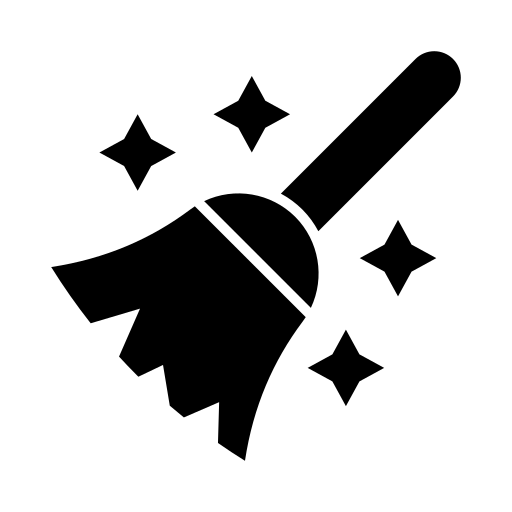
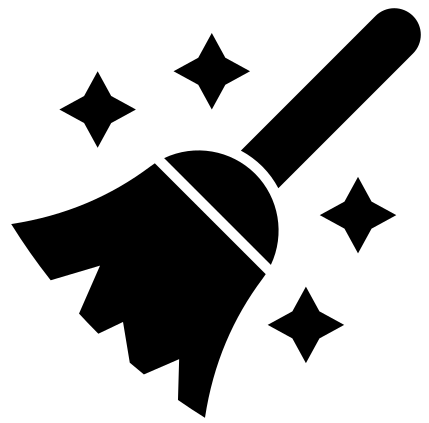
pinterest photo

diff --git a/carousel.html b/carousel.html
@@ -108,7 +108,7 @@
         <p class="lead">And yes, this is the last block of representative placeholder content. Again, not really intended to be actually read, simply here to give you a better view of what this would look like with some actual content. Your content.</p>
       </div>
       <div class="col-md-5">
-        <img src="images/woods.jpg" class="bd-placeholder-img bd-placeholder-img-lg featurette-image img-fluid mx-auto home-img-custom" width="500" height="500">
+        <img src="images/pinterestboard.png" class="bd-placeholder-img bd-placeholder-img-lg featurette-image img-fluid mx-auto home-img-custom" width="500" height="500">
 
       </div>
     </div>
